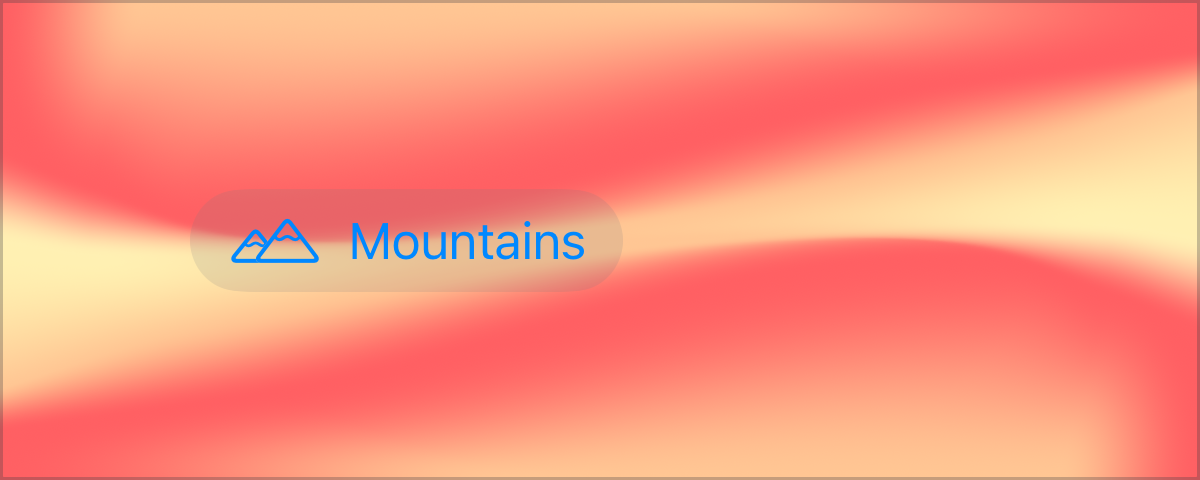
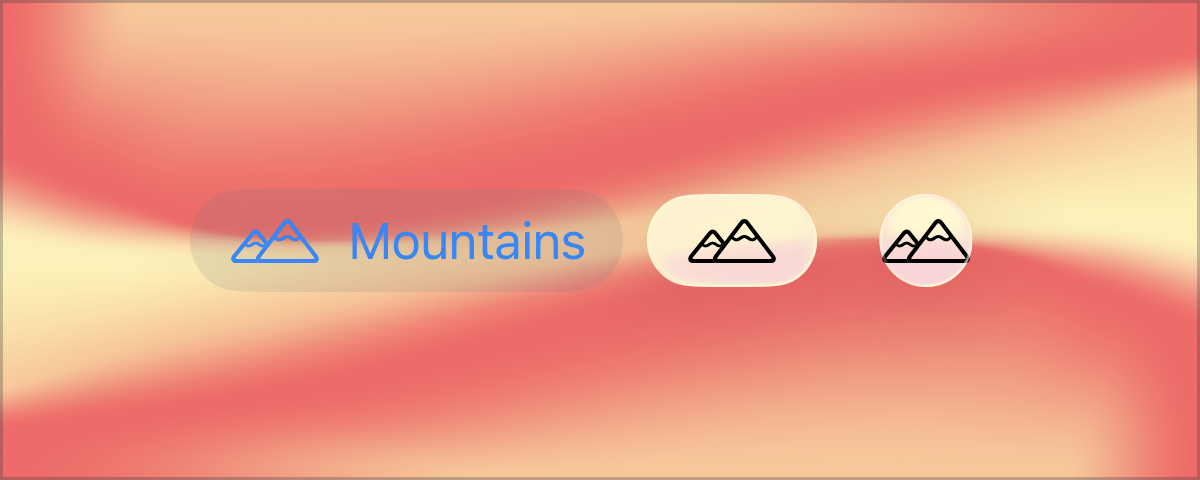
move IntricaciesOfCircularButtons into app and regenerate images

Changed region(s): [[0.5242, 0.4062, 0.8325, 0.6875], [0.185, 0.4688, 0.4933, 0.5625]]

diff --git a/illustrations-app/illustrations/IntricaciesOfCircularButtons.swift b/illustrations-app/illustrations/IntricaciesOfCircularButtons.swift
@@ -1,16 +1,17 @@
 //
-//  TrailingClosureIllustrations
+//  Trailing Closure Illustration App
 //  Created by Maic Lopez Saenz.
 //
 
 
-import TrailingClosureIllustrations
+@testable import IllustrationsApp
 
 import PreviewUtilities
 import SwiftUI
 import Testing
 
 
+@MainActor
 struct IntricaciesOfCircularButtons {
 
     let storage: IllustrationStorage
@@ -18,7 +19,7 @@ struct IntricaciesOfCircularButtons {
     init() throws {
         self.storage = try .init(
             filePath: #filePath,
-            droppingComponents: 2, // filename, renders
+            droppingComponents: 3, // filename, illustrations, illustration-app
             appendingComponents: ["illustrations", "intricacies-of-circular-buttons"]
         ) {
             // onImageStored
@@ -55,7 +56,7 @@ struct IntricaciesOfCircularButtons {
 
 
     @Test func existingModifiers() throws {
-        try storage.renderAndStore("existing-modifiers") {
+        try storage.renderAndStore("existing-modifiers", strategy: .windowHierarchy) {
             DocumentationIllustration(sizing: .regular, background: .fadedMoltenHorizon) {
                 HStack {
                     let mountainsButton = Button("Mountains", systemImage: "mountain.2", action: {})

diff --git a/illustrations-app/illustrations/IllustrationBackground+Additions.swift b/illustrations-app/illustrations/IllustrationBackground+Additions.swift
@@ -1,0 +1,24 @@
+//
+//  Trailing Closure Illustration App
+//  Created by Maic Lopez Saenz.
+//
+
+
+import PreviewUtilities
+import SwiftUI
+
+
+@MainActor
+extension DocumentationIllustration.Background {
+
+    public static let fadedMoltenHorizon: Self = .view {
+        PrettyMesh.moltenHorizon
+            .rotated()
+            .applying(opacities: [
+                .red:    0.8,
+                .yellow: 0.3,
+                .orange: 0.5
+            ])
+    }
+
+}
